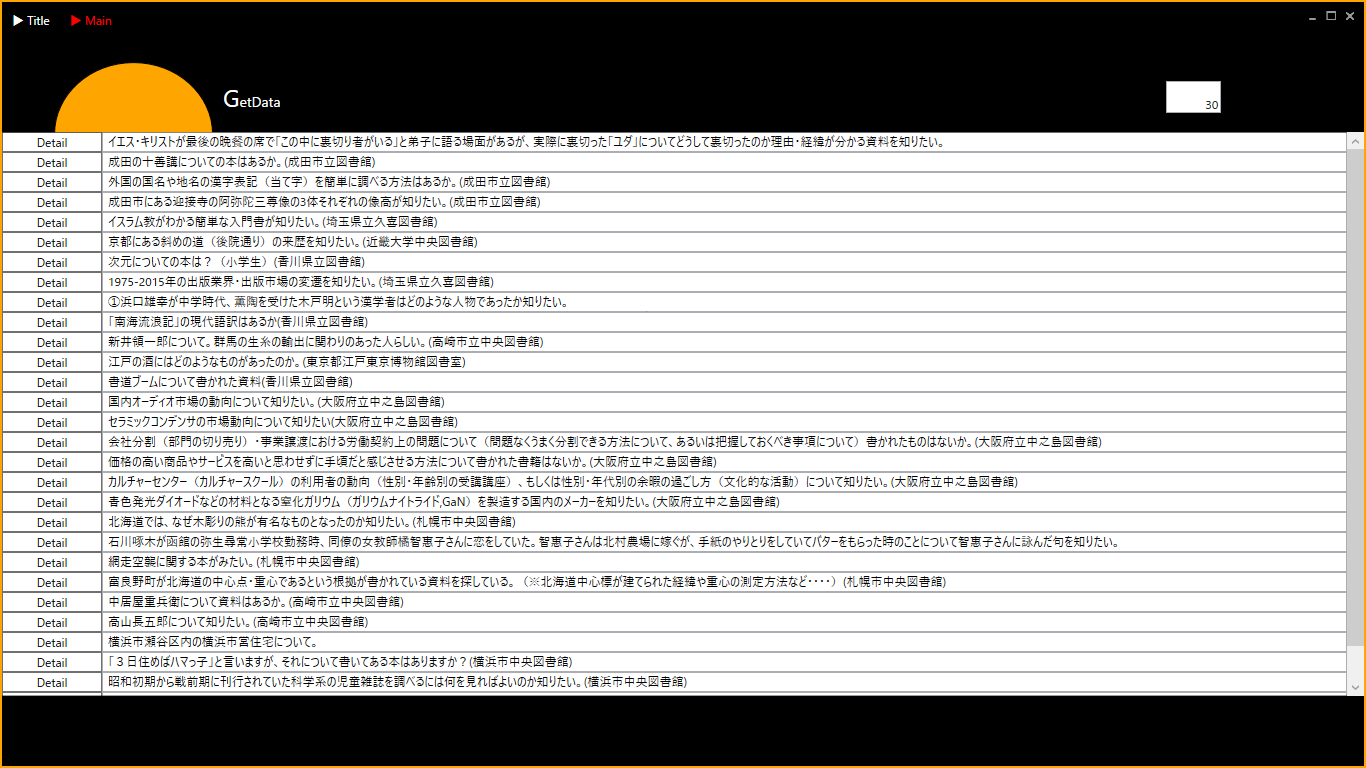
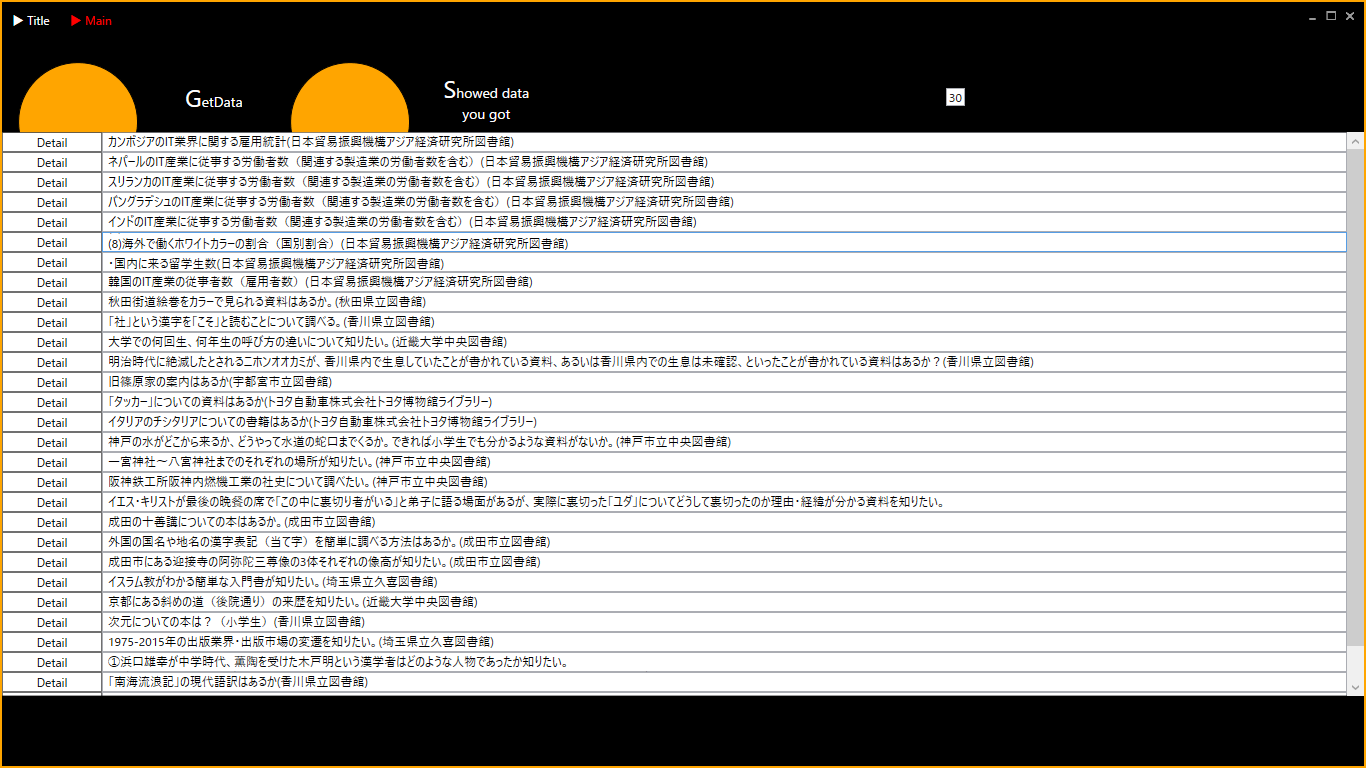
Improvement UI

Changed region(s): [[0.0, 0.0625, 0.8302, 0.9062], [0.8302, 0.0938, 0.8917, 0.1562], [0.6764, 0.0938, 0.7072, 0.1562]]

diff --git a/RssReaderForReferenceDatabase/RssReaderForReferenceDatabase/010_View/Main.xaml b/RssReaderForReferenceDatabase/RssReaderForReferenceDatabase/010_View/Main.xaml
@@ -19,6 +19,7 @@
             <ColumnDefinition Width="1*" />
             <ColumnDefinition Width="1*" />
             <ColumnDefinition Width="1*" />
+            <ColumnDefinition Width="1*" />
         </Grid.ColumnDefinitions>
         <Grid.RowDefinitions>
             <RowDefinition Height="1*" />
@@ -36,9 +37,8 @@
         <!--Control群-->
         <Grid Grid.Row="0" Grid.Column="0">
             <Button 
-                    HorizontalAlignment="Center"
-                    VerticalAlignment="Center" 
-                    Width="Auto" Height="Auto"
+                    HorizontalAlignment="Stretch"
+                    VerticalAlignment="Stretch" 
                     Command="{Binding CommandCalculate}"
                     >
                 <Button.Template>
@@ -46,7 +46,7 @@
                         <Grid>
                             <Grid.ColumnDefinitions>
                                 <ColumnDefinition Width="1*"/>
-                                <ColumnDefinition Width="1*"/>
+                                <ColumnDefinition Width="0.8*"/>
                             </Grid.ColumnDefinitions>
                             <Grid.Style>
                                 <Style TargetType="Grid">
@@ -61,11 +61,12 @@
                             <!--Grid.Column="0"-->
                             <!--Icon[Config]-->
                             <Ellipse Fill="Orange" Grid.Column="0"
-                                     HorizontalAlignment="Left" 
-                                     Height="144" 
+                                     Height="120" 
                                      Stroke="Black" 
-                                     VerticalAlignment="Top" 
-                                     Width="159"/>
+                                     HorizontalAlignment="Stretch" 
+                                     VerticalAlignment="Stretch" 
+                                     Width="120"
+                                     />
 
                             <!--Grid.Column="1"-->
                             <TextBlock Grid.Column="1"
@@ -85,7 +86,53 @@
         </Grid>
 
         <Grid Grid.Row="0" Grid.Column="1">
+            <Button 
+                    HorizontalAlignment="Stretch"
+                    VerticalAlignment="Stretch" 
+                    Command="{Binding CommandShowDataYouGot}"
+                    >
+                <Button.Template>
+                    <ControlTemplate>
+                        <Grid>
+                            <Grid.ColumnDefinitions>
+                                <ColumnDefinition Width="1*"/>
+                                <ColumnDefinition Width="0.8*"/>
+                            </Grid.ColumnDefinitions>
+                            <Grid.Style>
+                                <Style TargetType="Grid">
+                                    <Style.Triggers>
+                                        <Trigger Property="IsMouseOver" Value="true">
+                                            <Setter Property="Background" Value="Red"/>
+                                        </Trigger>
+                                    </Style.Triggers>
+                                </Style>
+                            </Grid.Style>
 
+                            <!--Grid.Column="0"-->
+                            <!--Icon[Config]-->
+                            <Ellipse Fill="Orange" Grid.Column="0"
+                                     Height="120" 
+                                     Stroke="Black" 
+                                     HorizontalAlignment="Stretch" 
+                                     VerticalAlignment="Stretch" 
+                                     Width="120"
+                                     />
+
+                            <!--Grid.Column="1"-->
+                            <TextBlock Grid.Column="1"
+                                       TextWrapping="Wrap"
+                                       VerticalAlignment="Center"
+                                       Foreground="White"
+                                       TextAlignment="Center"
+                                       FontSize="14"
+                                       Margin="10"
+                                       >
+                                <Run Text="S" FontSize="24" />howed data you got
+                            </TextBlock>
+                        </Grid>
+                    </ControlTemplate>
+                </Button.Template>
+            </Button>
         </Grid>
 
         <Grid Grid.Row="0" Grid.Column="2">
@@ -137,7 +184,7 @@
             Foreground="Black"
             Grid.Row="1" 
             Grid.RowSpan="8" 
-            Grid.ColumnSpan="4" 
+            Grid.ColumnSpan="5" 
             Content="{Binding ProcessedDataSource}"
             >
         </ScrollViewer>

diff --git a/RssReaderForReferenceDatabase/RssReaderForReferenceDatabase/015_ViewModel/MainViewModel.cs b/RssReaderForReferenceDatabase/RssReaderForReferenceDatabase/015_ViewModel/MainViewModel.cs
@@ -71,7 +71,14 @@ namespace RssReaderForReferenceDatabase._015_ViewModel
         }
         #endregion
 
+        #region MaxRowCount
+        /// <summary>
+        /// maxRowCount
+        /// </summary>
         private int maxRowCount = 30;
+        /// <summary>
+        /// MaxRowCount
+        /// </summary>
         public int MaxRowCount
         {
             get
@@ -85,8 +92,16 @@ namespace RssReaderForReferenceDatabase._015_ViewModel
                 this.RaisePropertyChanged("MaxRowCount");
             }
         }
+        #endregion
 
+        #region NewLine
+        /// <summary>
+        /// newLine
+        /// </summary>
         private bool newLine = true;
+        /// <summary>
+        /// NewLine
+        /// </summary>
         public bool NewLine
         {
             get
@@ -100,6 +115,7 @@ namespace RssReaderForReferenceDatabase._015_ViewModel
                 this.RaisePropertyChanged("NewLine");
             }
         }
+        #endregion
         #endregion Field
 
         #region Constructor
@@ -135,13 +151,36 @@ namespace RssReaderForReferenceDatabase._015_ViewModel
                 if (this.commandCalculate == null)
                 {
                     this.commandCalculate
-                        = new DelegateCommand(acquisitionExecute, CanAcquisitionExecute);
+                        = new DelegateCommand(AcquisitionExecute, CanAcquisitionExecute);
                 }
 
                 return this.commandCalculate;
             }
         }
         #endregion CommandCalculate
+
+        #region CommandShowDataYouGot
+        /// <summary>
+        /// commandShowDataYouGot
+        /// </summary>
+        private DelegateCommand commandShowDataYouGot { get; set; }
+        /// <summary>
+        /// CommandShowDataYouGot
+        /// </summary>
+        public DelegateCommand CommandShowDataYouGot
+        {
+            get
+            {
+                if (this.commandCalculate == null)
+                {
+                    this.commandCalculate
+                        = new DelegateCommand(AcquisitionExecute, CanAcquisitionExecute);
+                }
+
+                return this.commandCalculate;
+            }
+        }
+        #endregion
 
         #endregion Command
 
@@ -150,7 +189,7 @@ namespace RssReaderForReferenceDatabase._015_ViewModel
         /// <summary>
         /// 計算処理のコマンドの実行を行います。
         /// </summary>
-        private void acquisitionExecute()
+        private void AcquisitionExecute()
         {
             #region データ取得
             //負荷対策
@@ -185,6 +224,37 @@ namespace RssReaderForReferenceDatabase._015_ViewModel
         /// </summary>
         /// <returns></returns>
         private bool CanAcquisitionExecute()
+        {
+            return true;
+        }
+
+        /// <summary>
+        /// 表示処理のコマンドの実行を行います。
+        /// </summary>
+        private void ShowingExecute()
+        {
+            #region データ加工
+            if (CheckAndProcessRss() == false)
+            {
+
+            }
+            #endregion
+
+            #region コンテンツ作成
+            Dispatcher.CurrentDispatcher.BeginInvoke(
+                new Action(() =>
+                {
+                    CreateContentsControl();
+                }
+                )
+            );
+            #endregion
+        }
+        /// <summary>
+        /// 表示処理が実行可能かどうかの判定を行います。
+        /// </summary>
+        /// <returns></returns>
+        private bool CanShowingExecute()
         {
             return true;
         }
